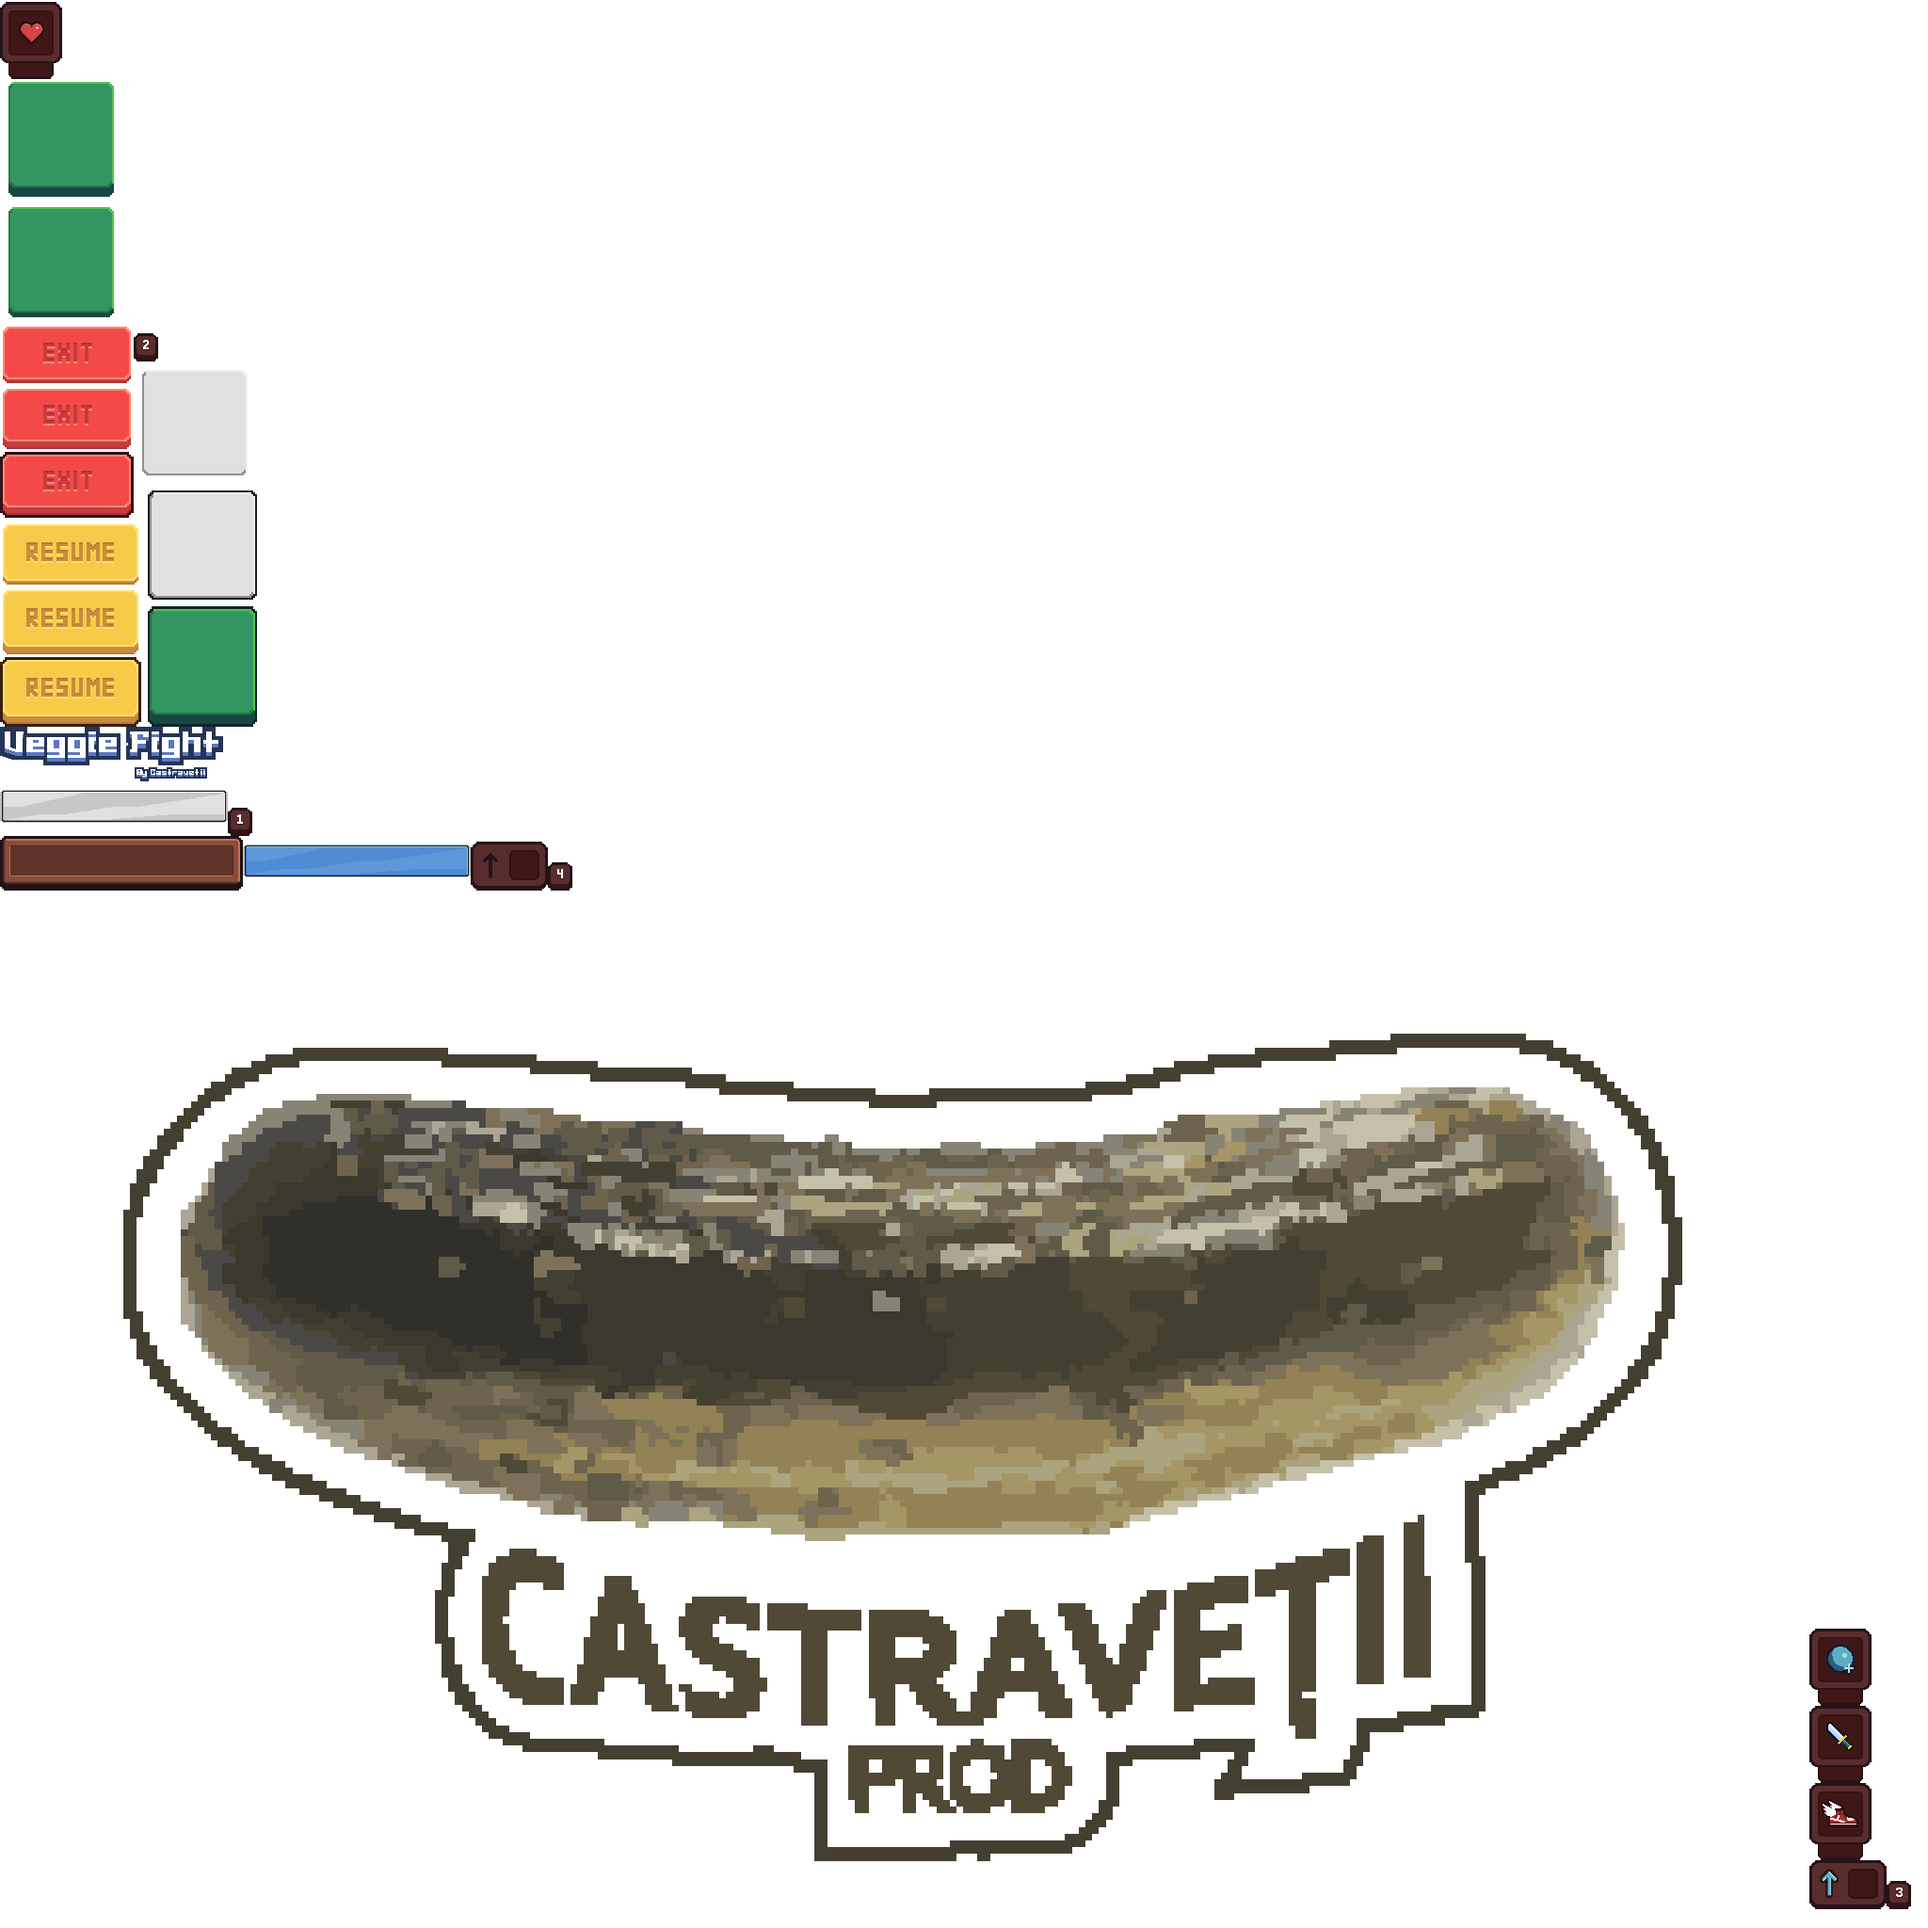
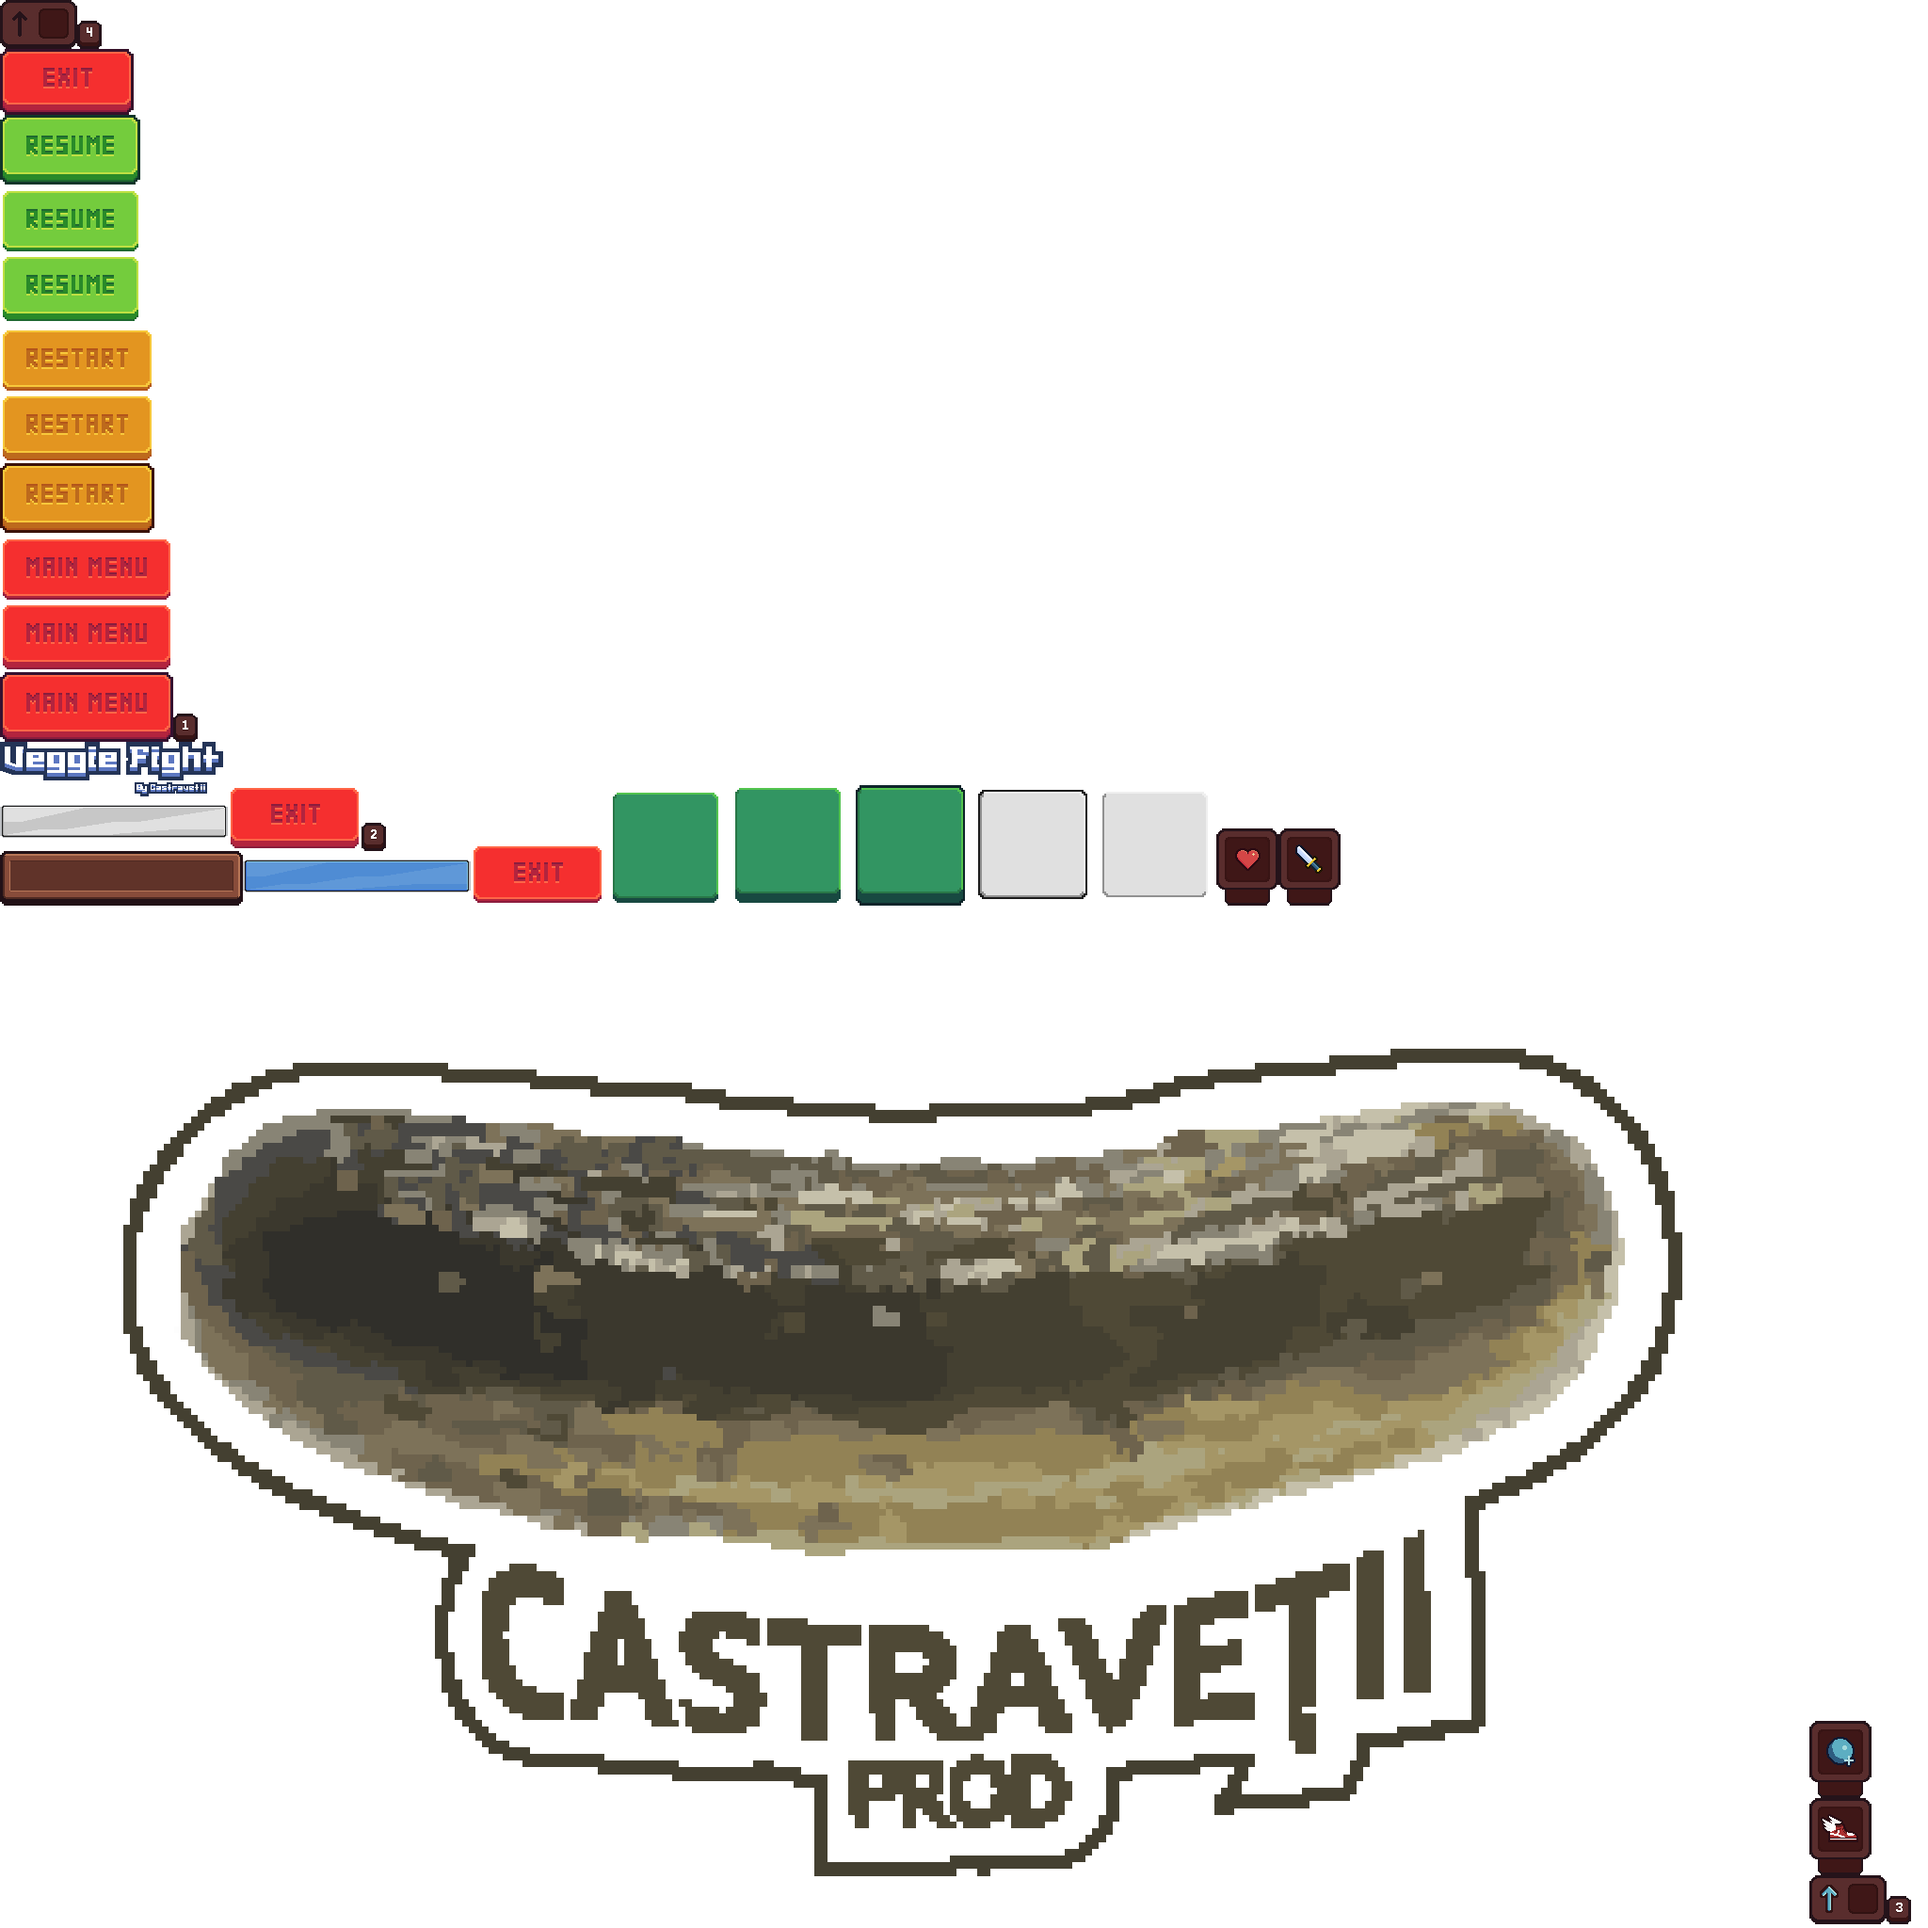
ALTE FIXURI

Changed region(s): [[0.0625, 0.5312, 0.875, 1.0], [0.0, 0.0, 0.7188, 0.4688], [0.9375, 0.8438, 1.0, 1.0]]

diff --git a/core/src/main/java/ro/ac/castravetii/screens/GameOverScreen.java b/core/src/main/java/ro/ac/castravetii/screens/GameOverScreen.java
@@ -3,7 +3,6 @@ package ro.ac.castravetii.screens;
 import com.badlogic.gdx.Game;
 import com.badlogic.gdx.Gdx;
 import com.badlogic.gdx.ScreenAdapter;
-import com.badlogic.gdx.audio.Music;
 import com.badlogic.gdx.graphics.GL20;
 import com.badlogic.gdx.scenes.scene2d.InputEvent;
 import com.badlogic.gdx.scenes.scene2d.Stage;
@@ -12,7 +11,6 @@ import com.badlogic.gdx.scenes.scene2d.utils.ClickListener;
 import com.badlogic.gdx.utils.viewport.ScreenViewport;
 import ro.ac.castravetii.Services;
 import ro.ac.castravetii.events.GameEventQueue;
-import ro.ac.castravetii.systems.SoundSystem;
 
 public class GameOverScreen extends ScreenAdapter {
     private final Game game;
@@ -44,7 +42,7 @@ public class GameOverScreen extends ScreenAdapter {
         Label scoreLabel = new Label("Score: " + finalScore, Services.skin);
 
         // Buton Retry
-        TextButton retryButton = new TextButton("RETRY", Services.skin);
+        Button retryButton = new Button(Services.skin, "restart");
         retryButton.addListener(new ClickListener() {
             @Override
             public void clicked(InputEvent event, float x, float y) {
@@ -53,7 +51,7 @@ public class GameOverScreen extends ScreenAdapter {
         });
 
         // Buton Main Menu
-        TextButton menuButton = new TextButton("MAIN MENU", Services.skin);
+        Button menuButton = new Button(Services.skin, "mainMenu");
         menuButton.addListener(new ClickListener() {
             @Override
             public void clicked(InputEvent event, float x, float y) {
@@ -64,8 +62,8 @@ public class GameOverScreen extends ScreenAdapter {
         // Organizarea în tabel
         table.add(gameOverLabel).padBottom(20).row();
         table.add(scoreLabel).padBottom(40).row();
-        table.add(retryButton).width(200).height(60).padBottom(10).row();
-        table.add(menuButton).width(200).height(60);
+        table.add(retryButton).padBottom(10).row();
+        table.add(menuButton);
     }
 
     @Override

diff --git a/core/src/main/java/ro/ac/castravetii/hud/HUD.java b/core/src/main/java/ro/ac/castravetii/hud/HUD.java
@@ -38,34 +38,33 @@ public class HUD implements Disposable {
         fpsDisplay = new Label("", Services.skin, "levelbar");
         killDisplay = new Label("SCORE: 0", Services.skin, "healthbar");
         wave = new Label("", Services.skin);
-        wave.setFontScale(1.15f);
+        wave.setFontScale(1.5f);
 
-        table.add(fpsDisplay).left().top().pad(10).expandX();
-        table.add(killDisplay).right().top().pad(10).expandX();
-        table.row();
-
-        table.add();
-
-        table.add(wave).right().top().padTop(70);
+//        table.add(wave).right().top().padTop(70);
         table.row();
 
         wave.setVisible(false);
+
+        table.add(fpsDisplay).left().top();
+        table.add(killDisplay).top();
+        table.row();
 
         VerticalGroup leftGroup = new VerticalGroup();
         leftGroup.space(5);
         leftGroup.addActor(new Container<>(healthBar).width(300));
         leftGroup.addActor(new Container<>(levelBar).width(300));
         //table.add(leftGroup).expandX().left().minWidth(300);
-        table.add(leftGroup).left().bottom().pad(10).expand().colspan(2);
+        table.add(leftGroup).left().bottom().pad(10).expandY().width(400).maxWidth(300);
 
         Table centerGroup = new Table();
-        table.add(centerGroup).space(20).expandX().center().minWidth(centerGroup.getPrefWidth());
+        centerGroup.add(wave).top().expandY().padTop(20);
+        table.add(centerGroup).space(20).expand().top().minWidth(centerGroup.getPrefWidth());
 
         HorizontalGroup rightGroup = new HorizontalGroup();
         rightGroup.addActor(statsManager);
         rightGroup.align(Align.right);
         //table.add(rightGroup).expandX().right().minWidth(300);
-        table.add(statsManager).right().bottom().pad(10);
+        table.add(statsManager).right().bottom().pad(10).width(400);
 //        table.setDebug(true);
     }
 

diff --git a/core/src/main/java/ro/ac/castravetii/hud/PauseMenu.java b/core/src/main/java/ro/ac/castravetii/hud/PauseMenu.java
@@ -32,8 +32,8 @@ public class PauseMenu {
 
         Button resumeButton = new Button(Services.skin, "resume");
         Button quitButton = new Button(Services.skin, "exit");
-        Button restartButton = new Button(Services.skin,"resume");
-        Button MainMenuButton = new Button(Services.skin,"resume");
+        Button restartButton = new Button(Services.skin,"restart");
+        Button MainMenuButton = new Button(Services.skin,"mainMenu");
 
         resumeButton.addListener(new ClickListener() {
             @Override

diff --git a/core/src/main/java/ro/ac/castravetii/systems/EnemyPathfindingSystem.java b/core/src/main/java/ro/ac/castravetii/systems/EnemyPathfindingSystem.java
@@ -75,8 +75,6 @@ public class EnemyPathfindingSystem extends IteratingSystem {
                 TransformComponent knifeTransformC = enemy.getKnife().getComponent(TransformComponent.class);
                 knifeTransformC.position.x = enemy.getComponent(TextureComponent.class).region.getRegionWidth() * 0.2f * (move.moveX > 0f ? -1f : 1f);
                 knifeTransformC.rotation = -10f * (move.moveX > 0f ? -1f : 1f);
-
-                enemy.wobbleAnim.play();
             }
 
             ec.hasHit = false;

diff --git a/core/src/main/java/ro/ac/castravetii/systems/AnimationControlSystem.java b/core/src/main/java/ro/ac/castravetii/systems/AnimationControlSystem.java
@@ -26,8 +26,8 @@ public class AnimationControlSystem extends IteratingSystem {
 
         switch (animComp.state) {
             case IDLE -> {
+                animComp.elapsedAnimTime = 0f;
                 if (textComp.region != animComp.idleSprite && animComp.idleSprite != null) {
-                    animComp.elapsedAnimTime = 0f;
                     textComp.region = animComp.idleSprite;
                 }
             }

diff --git a/core/src/main/java/ro/ac/castravetii/systems/PlayerControlSystem.java b/core/src/main/java/ro/ac/castravetii/systems/PlayerControlSystem.java
@@ -76,7 +76,6 @@ public class PlayerControlSystem extends EntitySystem {
 
                         if (e.target() instanceof Player) {
                             healthC.currentHealth -= e.damage();
-                            System.out.println("DEBUG: Jucatorul a luat " + e.damage() + " damage!");
 
                             TransformComponent playerPos = playerEntity.getComponent(TransformComponent.class);
 

diff --git a/core/src/main/java/ro/ac/castravetii/screens/MainMenuScreen.java b/core/src/main/java/ro/ac/castravetii/screens/MainMenuScreen.java
@@ -51,7 +51,7 @@ public class MainMenuScreen extends ScreenAdapter {
 
 
         music = Gdx.audio.newMusic(
-            Gdx.files.internal("music/realgone.mp3")
+            Gdx.files.internal("music/unity.wav")
         );
 
         music.setLooping(true);
